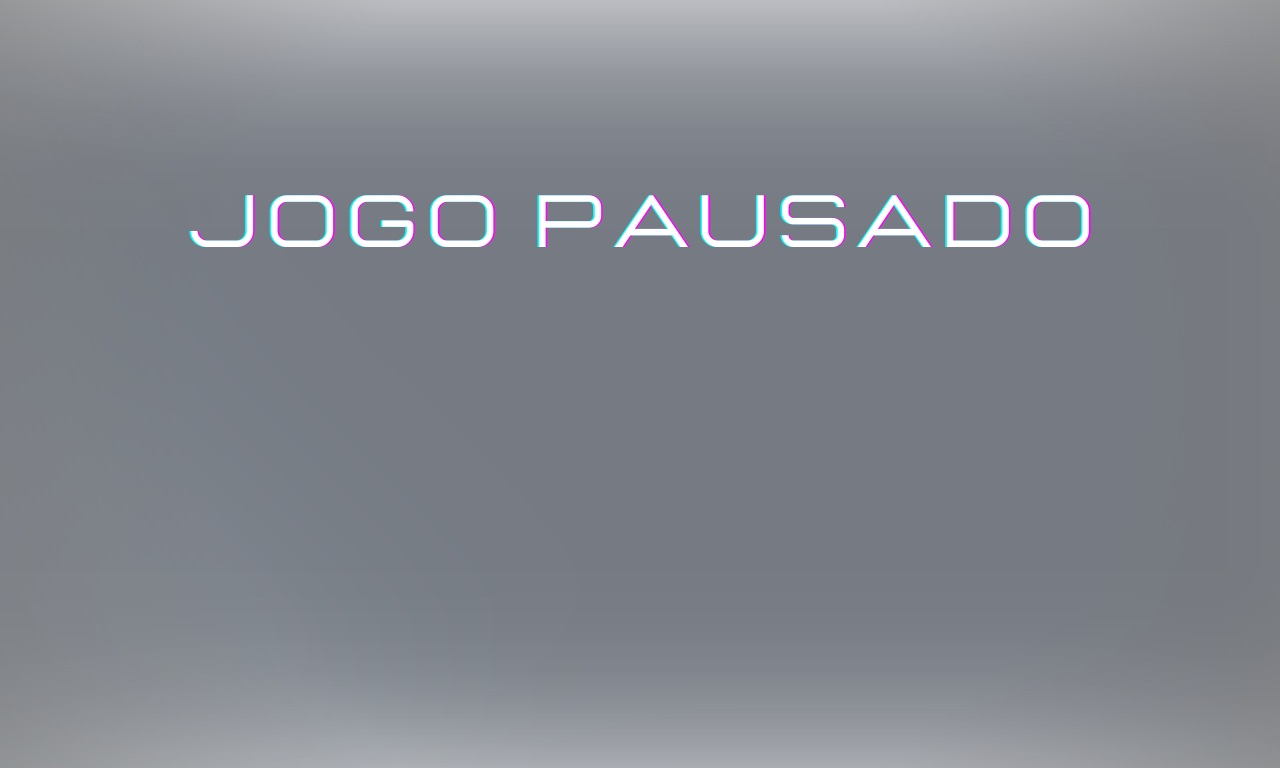
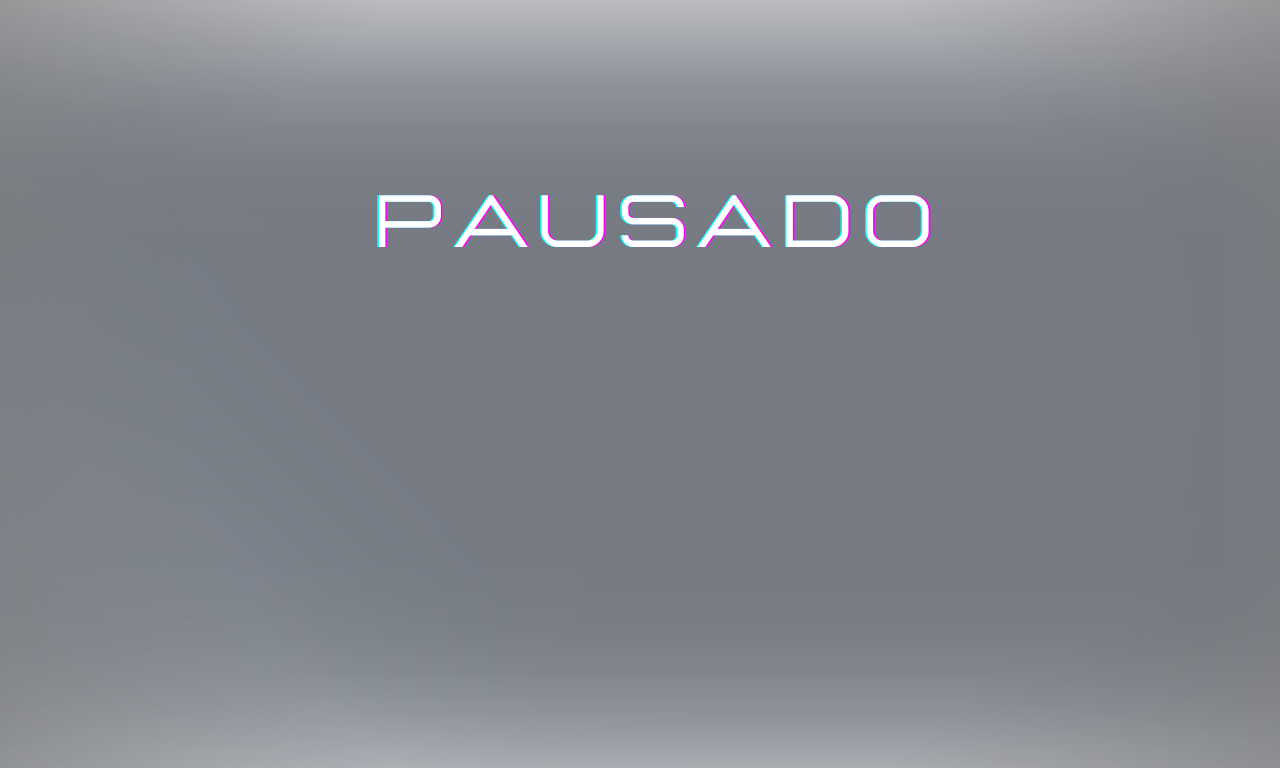
Tela de pause atualizada

diff --git a/fase1.py b/fase1.py
@@ -8,40 +8,51 @@ import colisoes_fase1
 
 
 def fase(var_global):
+
     janela = Window(1280,768)
     janela.set_title("Fase 1 - The End Daylight")
     teclado = Window.get_keyboard()
+    mouse = Window.get_mouse()
 
-    fundo= Sprite("images/fase1/fundo.png")
+    fundo = Sprite("images/fase1/fundo.png")
     fundo.set_position(0,0)
 
     fundo2= Sprite("images/fase1/fundo.png")
     fundo2.set_position(1280,0)
 
-    nave = Sprite("images/fase1/ship.gif")
-    fundo_pause = Sprite("images/pause/pause.png")
-    continuar_pause = Sprite("images/pause/continuar.png")
-    continuar_pause.set_position(500,300)
-
     pause_icon = Sprite("images/pause/pause_icon.png")
     pause_icon.set_position(1280-pause_icon.width-30,10)
 
+    nave = Sprite("images/fase1/ship.gif")
+
+    ## TELA DE PAUSA
+    fundo_pause = Sprite("images/pause/pause.png")
+
+    som_on_pause = Sprite("images/tela_geral/som_on.png")
+    som_off_pause = Sprite("images/tela_geral/som_off.png")
+    som_on_pause.set_position(400,300), som_off_pause.set_position(400,200)
+
+    music_on_pause = Sprite("images/tela_geral/music_on.png")
+    music_off_pause = Sprite("images/tela_geral/music_off.png")
+    music_on_pause.set_position(600,300), music_off_pause.set_position(700,200)
+
+    continuar_pause = Sprite("images/pause/continuar.png")
+    continuar_pause.set_position(500,400)
+
     sair_pause = Sprite("images/pause/sair.png")
-    sair_pause.set_position(500,400)
+    sair_pause.set_position(500,500)
 
-    mouse = Window.get_mouse()
 
-    var = 1
+    ## Variáveis
     nave.set_position(50,janela.height/2)
-    cont,fps = 0, 0
-    fps_atual = 0
+    cont,fps, fps_atual = 0, 0, 0
     lista_satelite_on = []
     lista_satelite_off = []
     lista_asteroide = []
     lista_tiro = []
     vida_list = []
-    vida = 4
-    pontos = 0
+    var, vida, pontos = 1, 4, 0
+
     for vida_num in range(1,vida):
         vida_img = Sprite("images/fase1/vida.png")
         vida_img.set_position(vida_num*50,20)
@@ -142,6 +153,8 @@ def fase(var_global):
             sair_pause.draw()
             janela.update()
             
+            music_on_pause.draw()
+            som_on_pause.draw()
             if mouse.is_button_pressed(1):
                 if mouse.is_over_object(continuar_pause): 
                     var = 1
